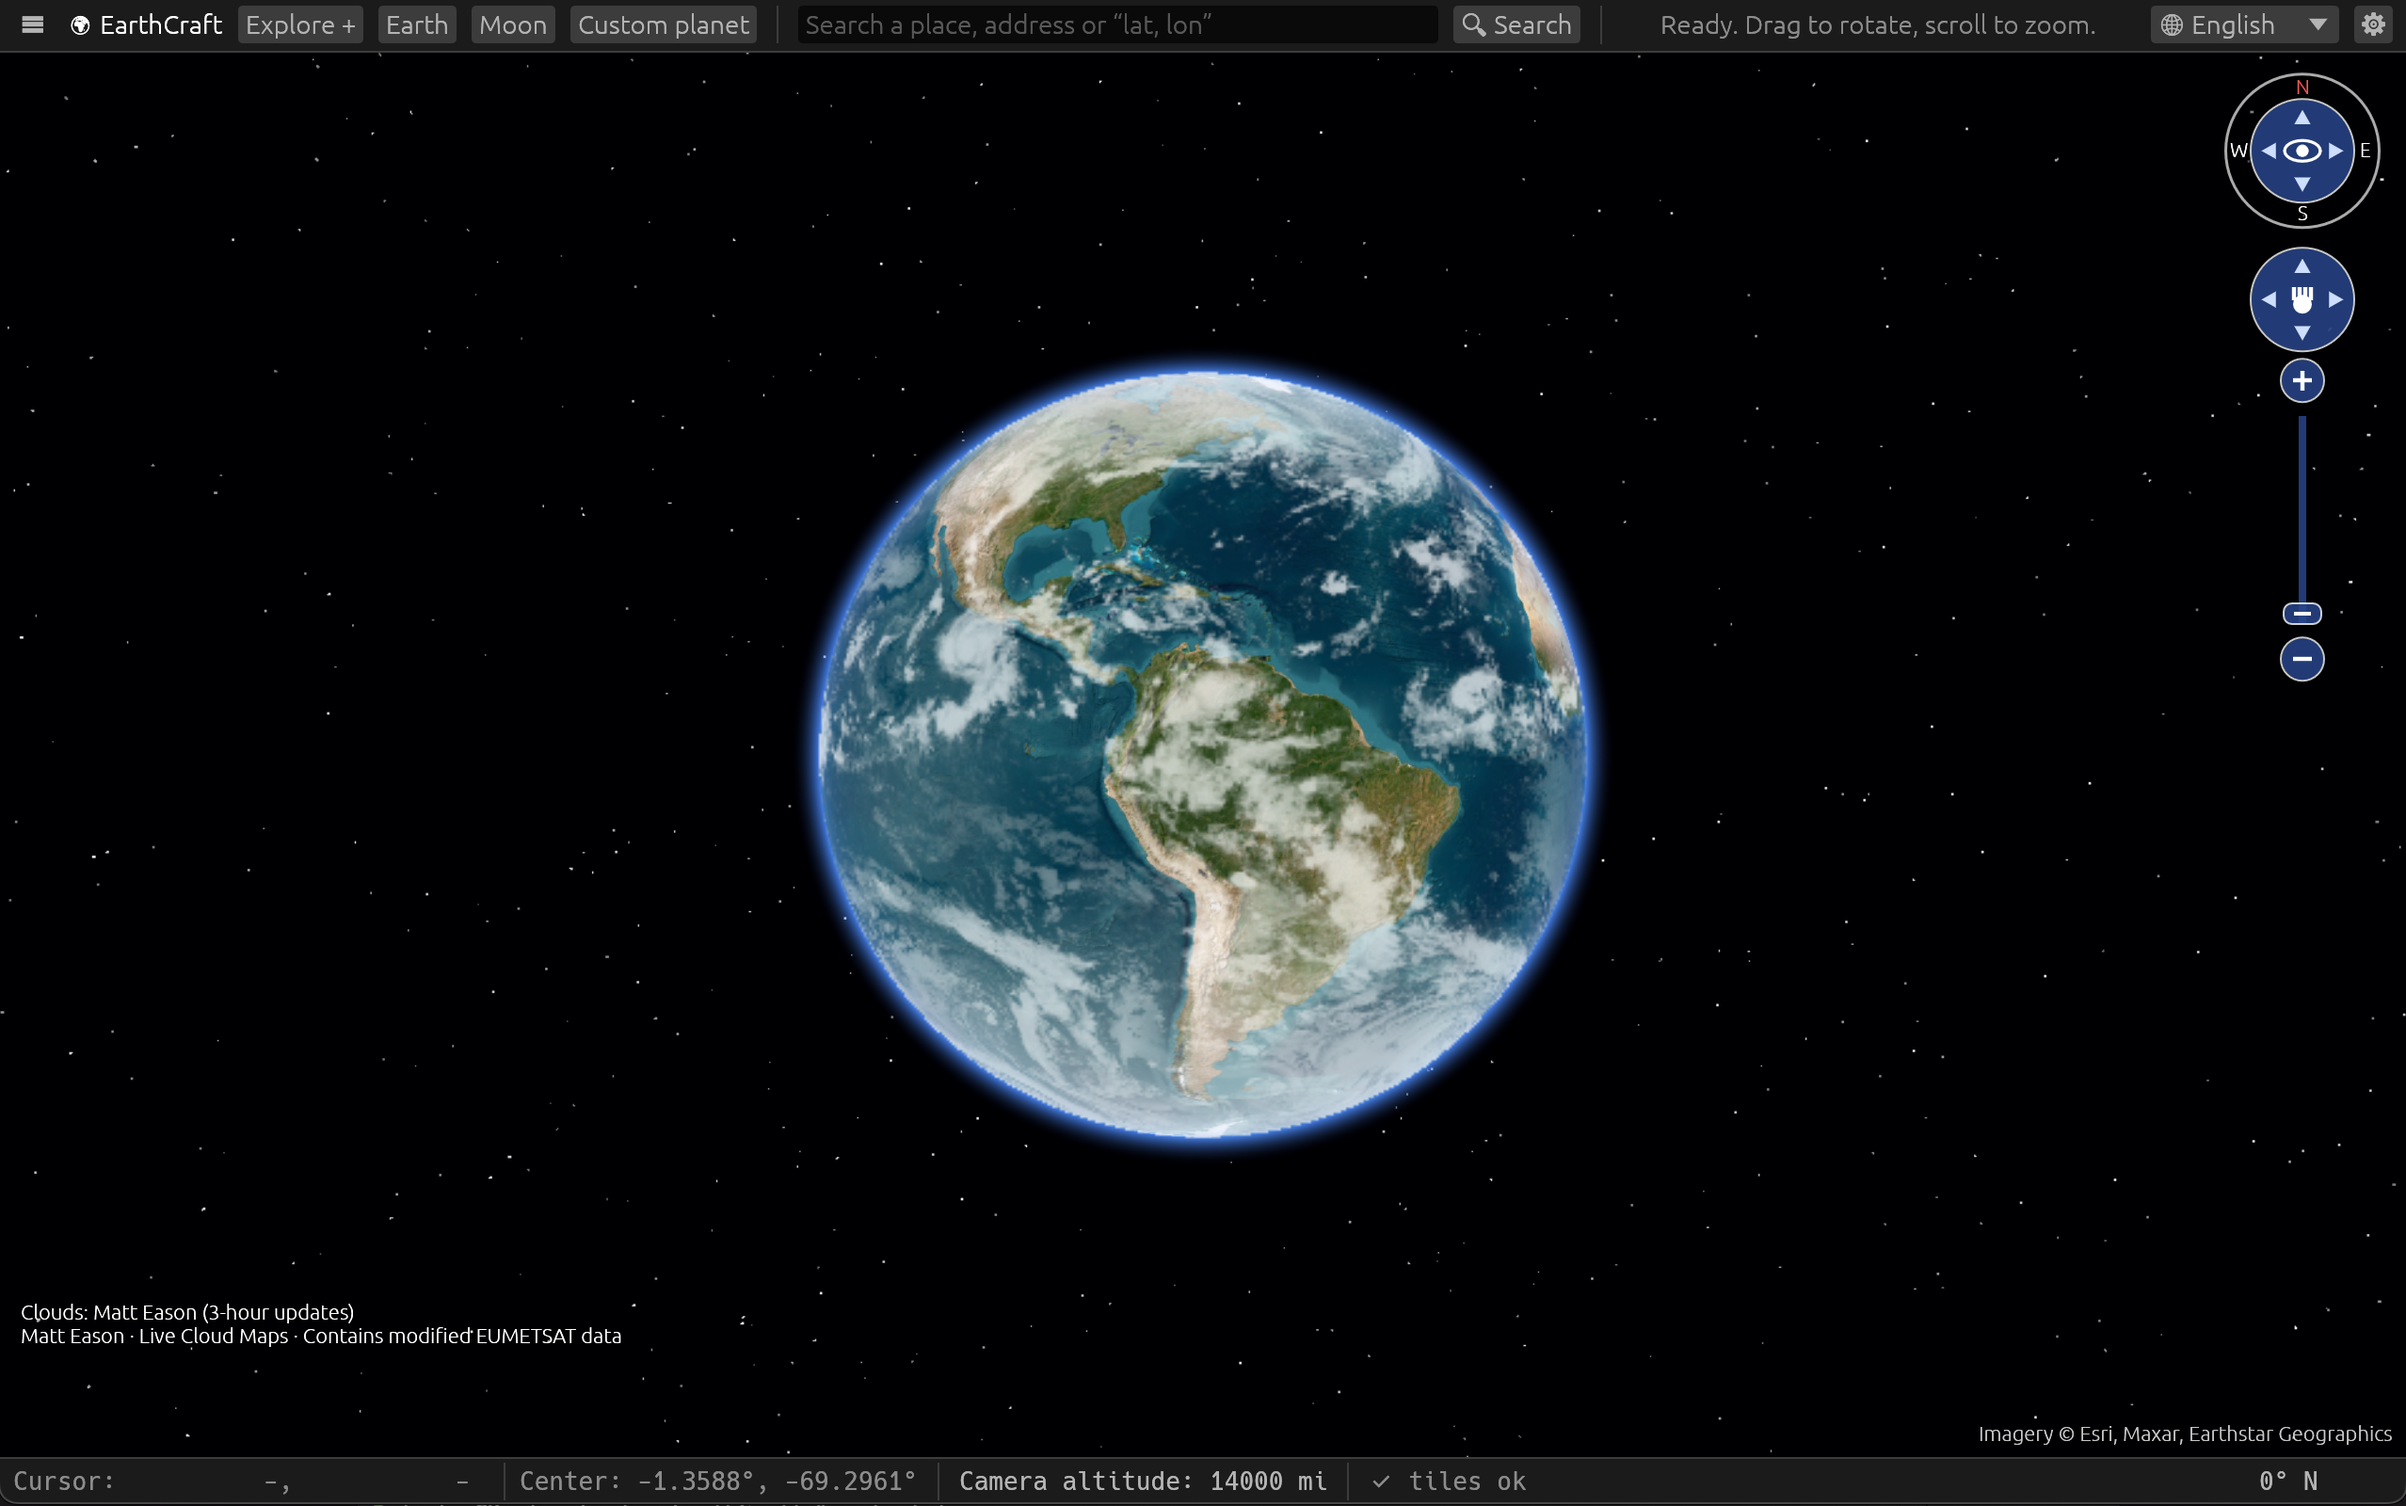
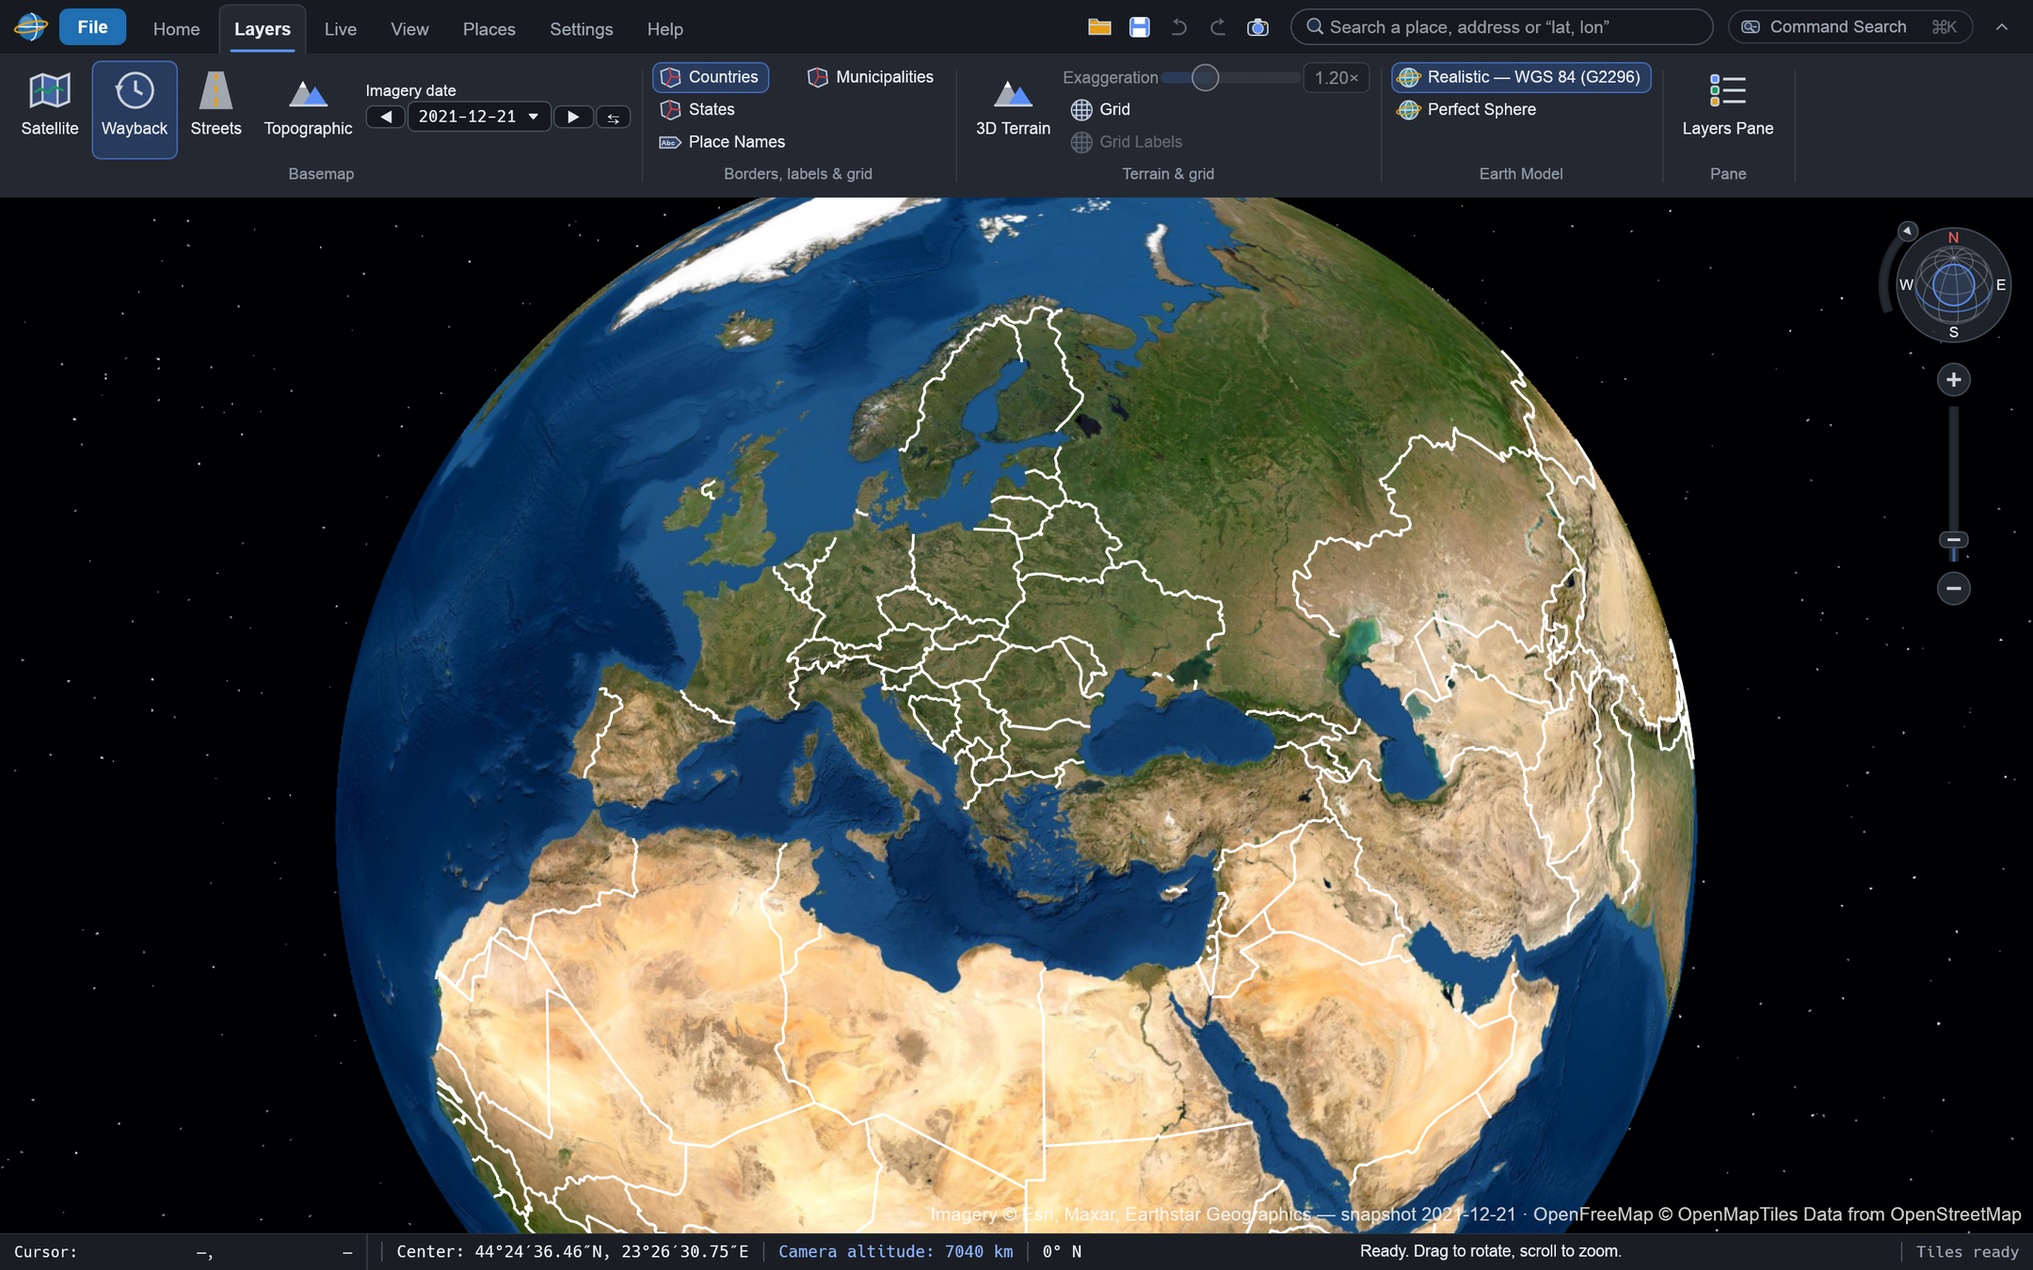
README: new screenshot of GlobeCraft (roadmap 0.9)
Claude-Session: https://claude.ai/code/session_01Qfpu85PaPSQGofCppG2mUa

diff --git a/docs/ROADMAP.md b/docs/ROADMAP.md
@@ -57,7 +57,7 @@ This is a plan, not a list of shipped features. Every item has a size:
 | 0.6 | Replace the emoji glyphs still used as icons with the vector icon set, or drop them where an icon is already drawn | S–M | Affects "💾 Save", "📂 Open KML/KMZ…", the globe context menu, the Explorer worlds and "⏳" statuses. The localisation fixture pins the old strings, so update it deliberately **Done 2026-10-25:** context menu, Places (Save, Save as, Open, At center), the Explorer worlds and the folder Browse buttons draw vector icons (`icons::button`); loading notes show a spinner; the emoji are gone from both locale files. The fixture test strips a leading emoji from the original wording. The easter egg keeps its decorative symbols |
 | 0.7 | Add a command for the state-border altitude (`layer.stateAltitude`) so the assistant and Command Search can change it | S | The setting exists only as a pane control **Done 2026-10-25:** `layer.stateAltitude` (`km`, 0–8,000), enabled while the state layer is on |
 | 0.8 | First GlobeCraft release (0.3.0) notes with the "what changed" screenshots, from the new repository `FireflyTheReal/GlobeCraft` | S | `docs/releases/`. English only: the repository has no translated documents **Notes written 2026-10-27** (`docs/releases/v0.3.0.md`); version 0.3.0 |
-| 0.9 | Re-shoot the README screenshot (`assets/repository/globecraft-app.png`) with the GlobeCraft name on screen | S | The current image still shows the old title |
+| 0.9 | Re-shoot the README screenshot (`assets/repository/globecraft-app.png`) with the GlobeCraft name on screen | S | The current image still shows the old title **Done 2026-10-27** (Wayback imagery, country borders, the Layers ribbon) |
 
 **0.2 in detail.** Two changes are merged:
 

diff --git a/README.md b/README.md
@@ -4,7 +4,7 @@
 imagery, borders and names, follow live aircraft, ships and weather, and measure
 distances. Free and open source, for Windows, macOS and Linux.
 
-![GlobeCraft showing the globe with borders, names and navigation controls](assets/repository/globecraft-app.png)
+![GlobeCraft showing Europe and the Middle East on the globe, with country borders, the Layers ribbon and the navigator](assets/repository/globecraft-app.png)
 
 ## Get it
 
